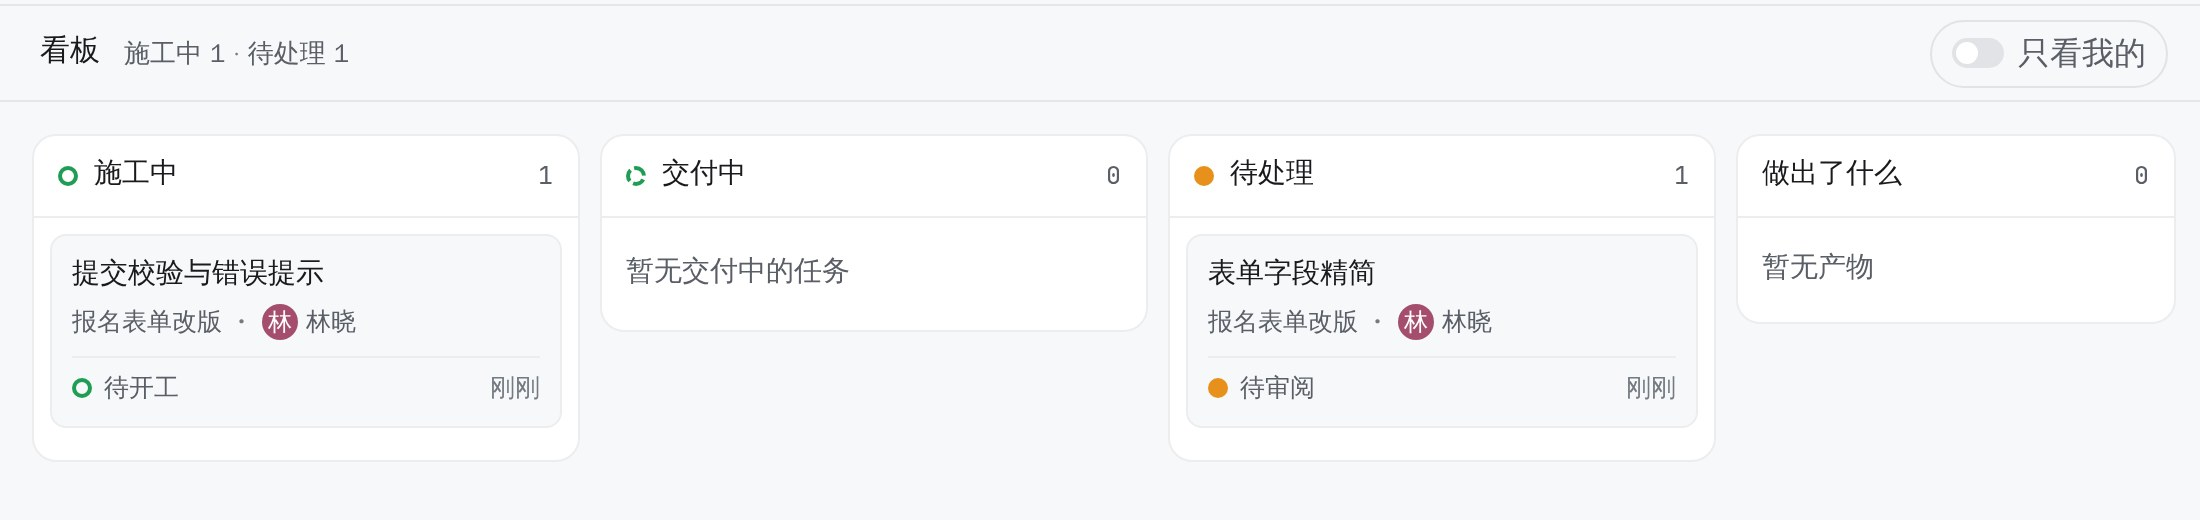
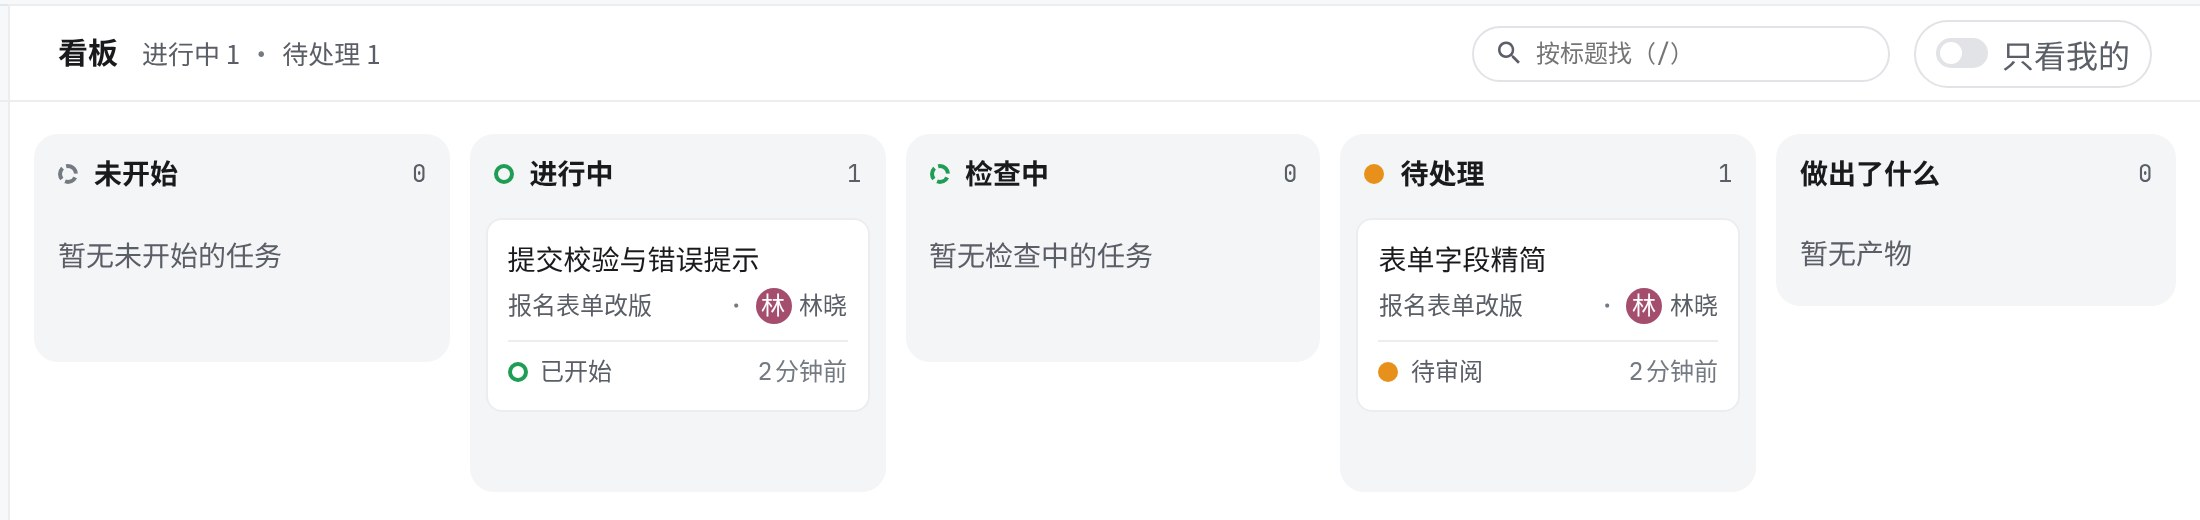
docs: retake the board screenshot; the docs fixture makes tasks the way a person does
The docs fixture still split tasks out through the removed
`POST /topics/{id}/split`. It now creates each task, writes its document
and starts it, and the board picture is retaken from it.

Claude-Session: https://claude.ai/code/session_01Hp1A42scLPRoPRvC97qNfq

diff --git a/docs/site/shots/fixture.py b/docs/site/shots/fixture.py
@@ -192,17 +192,24 @@ async def main() -> None:
             "expected_version": doc.get("doc_version", 0),
         },
     )
-    tasks = [
+    def task(title: str, goal: str) -> str:
+        """A task the way a person makes one: created, its document written,
+        started."""
+        made = api("POST", f"/topics/{form}/tasks", alice, json={"title": title})
+        path = f"/topics/{form}/tasks/{made['id']}"
+        doc = api("GET", f"{path}/document", alice)["id"]
         api(
-            "POST",
-            f"/topics/{form}/split",
+            "PUT",
+            f"/documents/{doc}",
             alice,
-            json={"title": title, "brief": brief, "reviewer_handle": "alice"},
-        )["id"]
-        for title, brief in (
-            ("表单字段精简", "必填项减到 4 项，院系年级由学号带出。"),
-            ("提交校验与错误提示", "手机号、学号格式校验，错误提示写在输入框下方。"),
+            json={"content": f"## 目标\n\n{goal}\n", "expected_version": 0},
         )
+        api("POST", f"{path}/start", alice, json={"reviewer_handle": "alice"})
+        return made["id"]
+
+    tasks = [
+        task("表单字段精简", "必填项减到 4 项，院系年级由学号带出。"),
+        task("提交校验与错误提示", "手机号、学号格式校验，错误提示写在输入框下方。"),
     ]
     await (
         say(
